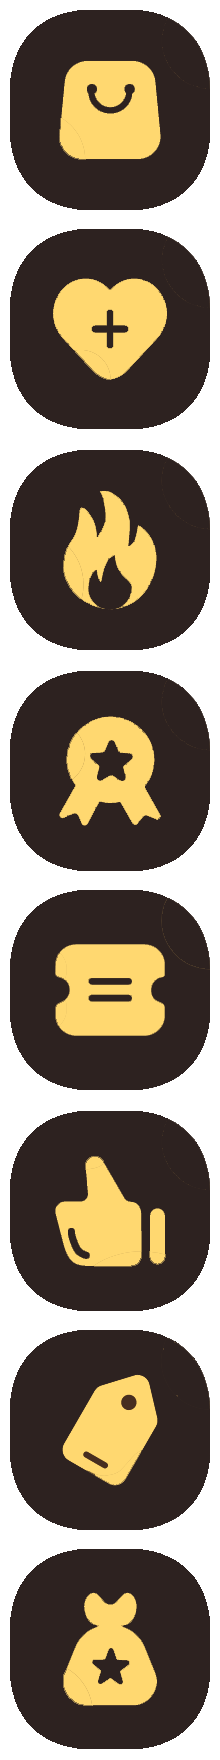
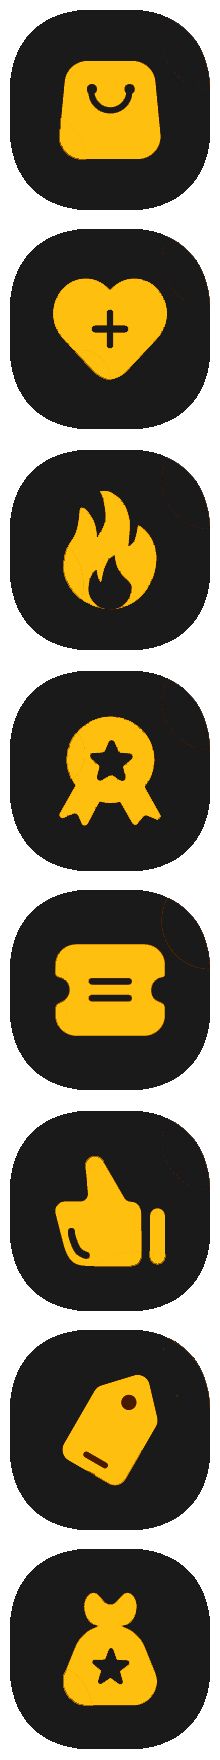
增加新的头图和呼吸灯效果

diff --git a/Cateyes/Cateye_index.html b/Cateyes/Cateye_index.html
@@ -368,6 +368,9 @@
 							<div class="swiper-slide">
 								<img class="recommanded_goods" id="recommanded_goods_4" src="onlineimgs/推送_奥德赛精酿.png">
 							</div>
+							<div class="swiper-slide">
+								<img class="recommanded_goods" id="recommanded_goods_5" src="onlineimgs/推送_miku.png">
+							</div>
 						</div>
 						<div class="swiper-pagination"></div>
 					</div>
@@ -425,6 +428,14 @@
 						background-image: url(onlineimgs/icons.png);
 						transform-origin: center;
 						transition-duration: 100ms;
+						filter: hue-rotate(0deg);
+						animation: 2s changehue linear infinite;
+					}
+					@keyframes changehue{
+						from{filter: hue-rotate(0deg);}
+						to{
+							filter: hue-rotate(360deg);
+						}
 					}
 
 					.functionicon:after {
